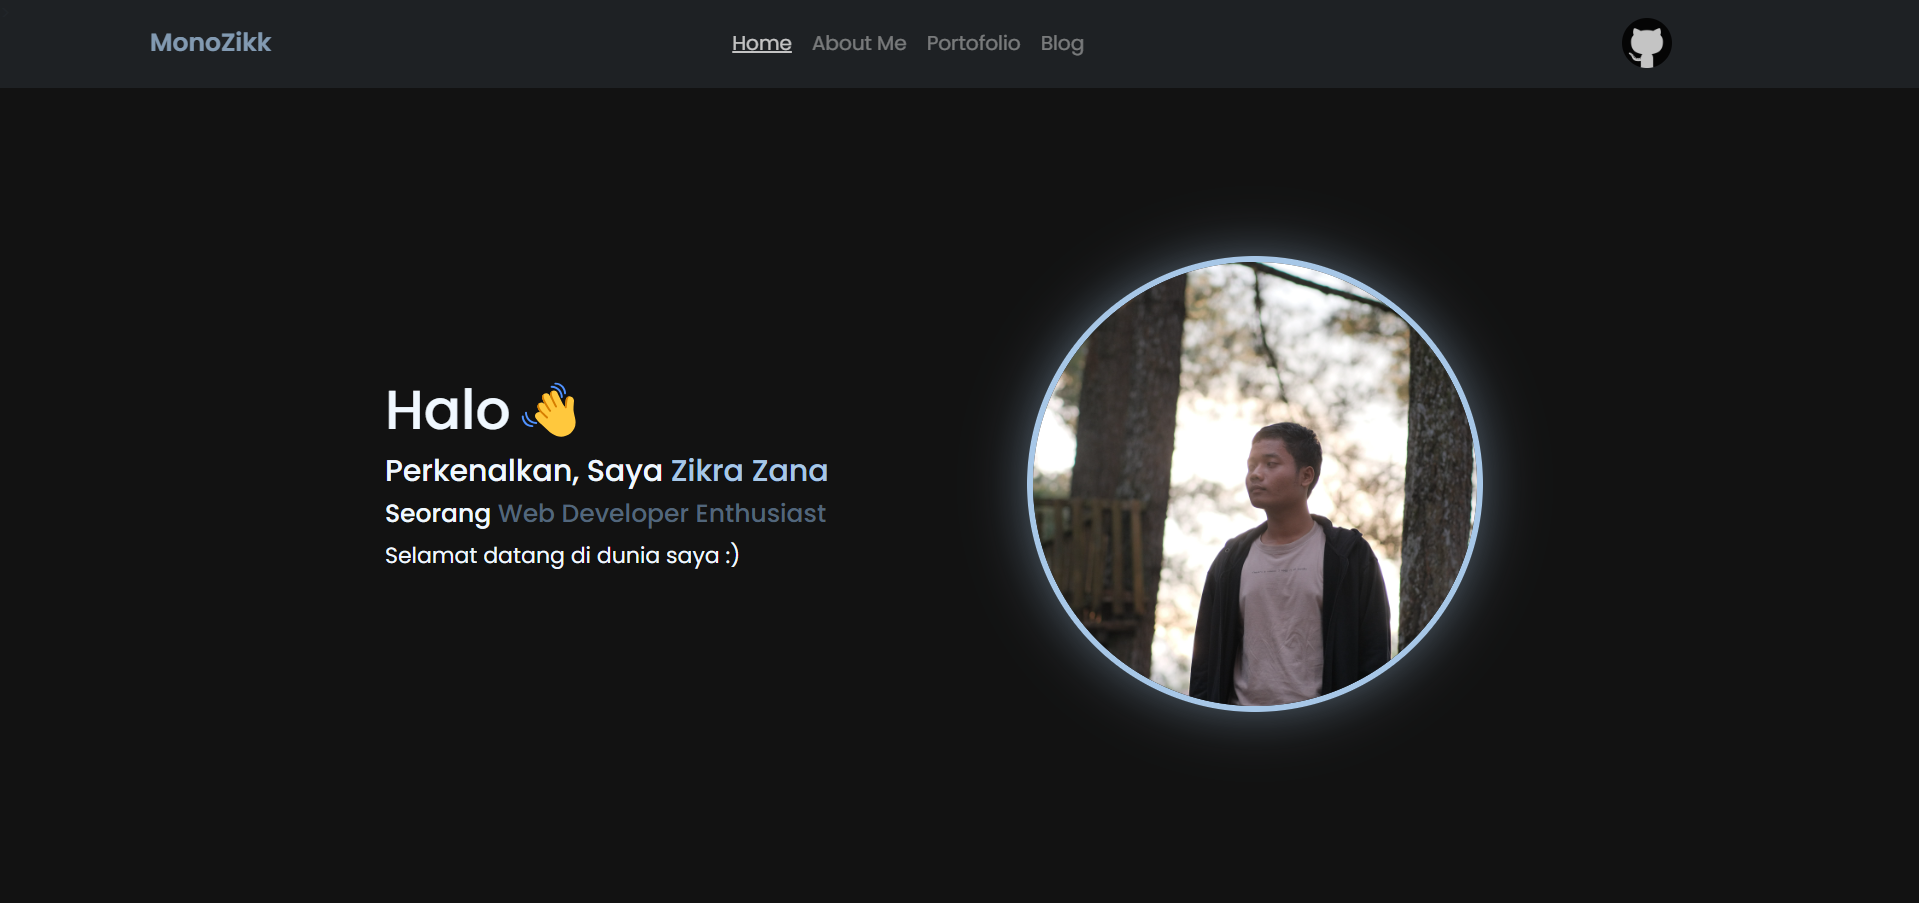
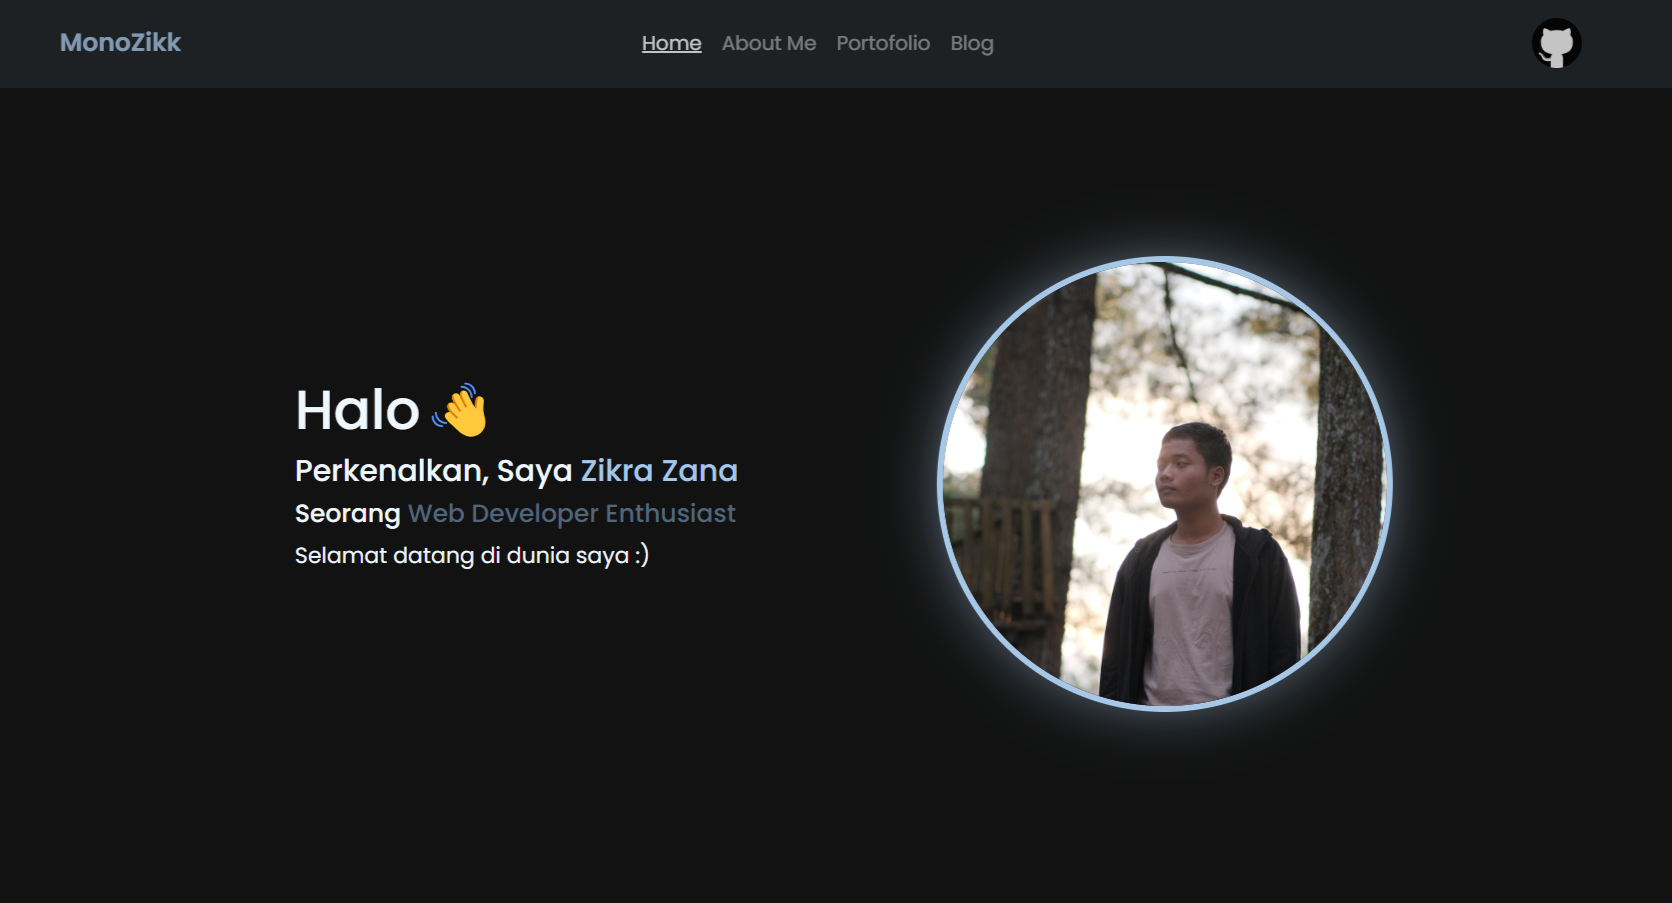
Mengatur scroolbar (beta)

diff --git a/about_me.html b/about_me.html
@@ -15,7 +15,7 @@
         rel="stylesheet">
     <link rel="stylesheet" href="navbar.css">
     <link href="https://cdnjs.cloudflare.com/ajax/libs/font-awesome/6.5.1/css/all.min.css" rel="stylesheet">
-
+    <link rel="stylesheet" href="scroolbar.css">
     <style>
         .poppins-regular {
             font-family: "Poppins", serif;
@@ -76,7 +76,7 @@
 
         @media (max-width: 768px) {
             .mobile-content {
-                margin-top: 100px !important;
+                margin-top: 50px !important;
             }
 
             .section-mobile {
@@ -85,7 +85,9 @@
 
             .section-mobile1 {
                 margin-top: 50px;
+                margin-bottom: 120px;
             }
+
         }
 
         /* Large devices */
@@ -97,20 +99,9 @@
             .hr-mobile {
                 width: 300px;
             }
-        }
 
-        html,
-        body {
-            scrollbar-width: none;
-            -ms-overflow-style: none;
+            
         }
-
-        html::-webkit-scrollbar,
-        body::-webkit-scrollbar {
-            display: none;
-        }
-
-        
     </style>
 
 </head>
@@ -189,10 +180,8 @@
     <!-- end of navbar -->
 
     <!-- Profil -->
-    
-
-
-        <section class="mobile-content d-flex align-items-center p-3 p-md-5 min-vh-100">
+    <div class="scrool-content" style="margin-top: 3rem;">
+        <section class="mobile-content d-flex align-items-center p-md-5 min-vh-100" style="margin-top: -70px;">
             <div class="container">
                 <div class="row">
                     <div
@@ -346,16 +335,17 @@
                 </div>
             </div>
         </section>
-        <script src="https://cdn.jsdelivr.net/npm/bootstrap@5.3.3/dist/js/bootstrap.bundle.min.js"
-            integrity="sha384-YvpcrYf0tY3lHB60NNkmXc5s9fDVZLESaAA55NDzOxhy9GkcIdslK1eN7N6jIeHz"
-            crossorigin="anonymous"></script>
+    </div>
+    <script src="https://cdn.jsdelivr.net/npm/bootstrap@5.3.3/dist/js/bootstrap.bundle.min.js"
+        integrity="sha384-YvpcrYf0tY3lHB60NNkmXc5s9fDVZLESaAA55NDzOxhy9GkcIdslK1eN7N6jIeHz"
+        crossorigin="anonymous"></script>
 
-        <script>
-            document.querySelectorAll('.progress-circle').forEach(circle => {
-                const percentage = circle.getAttribute('data-percentage');
-                circle.style.setProperty('--percentage', percentage);
-            });
-        </script>
+    <script>
+        document.querySelectorAll('.progress-circle').forEach(circle => {
+            const percentage = circle.getAttribute('data-percentage');
+            circle.style.setProperty('--percentage', percentage);
+        });
+    </script>
 </body>
 
 </html>

diff --git a/scroolbar.css b/scroolbar.css
@@ -1,5 +1,42 @@
+/* Jangan sembunyikan scrollbar global */
+html,
+body {
+    overflow: hidden; /* Pastikan body memiliki scrollbar jika diperlukan */
+}
 
-  /* Efek gradien pada thumb scrollbar */
-.scrollable-content::-webkit-scrollbar-thumb {
-    background: linear-gradient(45deg, #6a11cb, #2575fc);
-  }
+/* Custom scrollbar hanya untuk .scrool-content */
+.scrool-content {
+    overflow-y: scroll; /* Aktifkan scroll vertikal */
+    max-height: 700px; /* Tentukan tinggi maksimal agar konten meluap */
+}
+
+/* Kustomisasi scrollbar pada .scrool-content */
+.scrool-content::-webkit-scrollbar {
+    width: 8px;
+}
+
+.scrool-content::-webkit-scrollbar-track {
+    background: #f1f1f1;
+    
+}
+
+.scrool-content::-webkit-scrollbar-thumb {
+    background: #888;
+    border-radius: 3px;    
+    
+}
+
+.scrool-content::-webkit-scrollbar-thumb:hover {
+    background: #555;
+}
+/* Sembunyikan scrollbar pada layar dengan lebar 992px atau lebih kecil */
+@media screen and (max-width: 992px) {
+    .scrool-content {
+        scrollbar-width: none; /* Firefox */
+        -ms-overflow-style: none; /* IE and Edge */
+    }
+    
+    .scrool-content::-webkit-scrollbar {
+        display: none; /* Chrome, Safari, Opera */
+    }
+}
